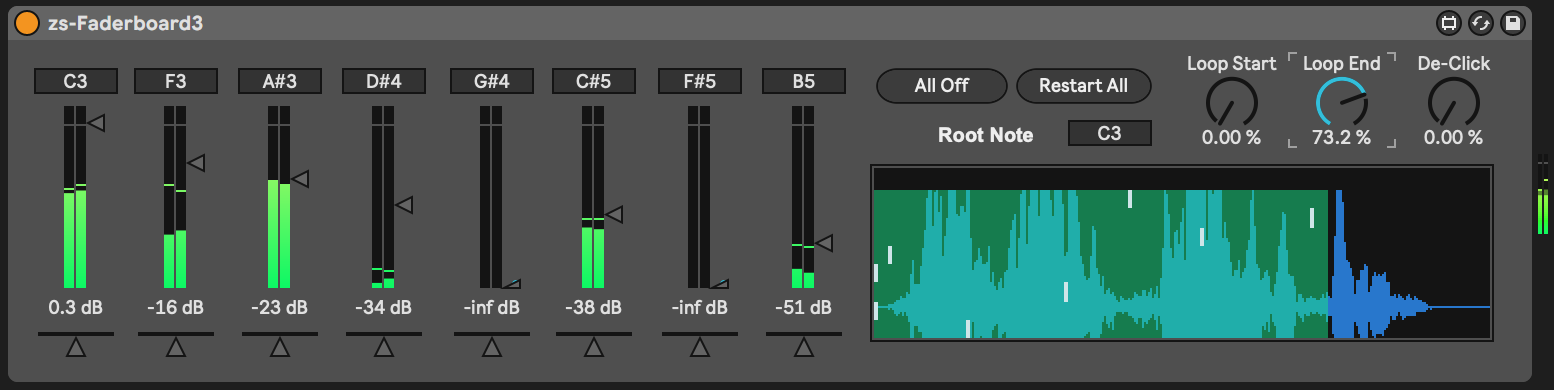
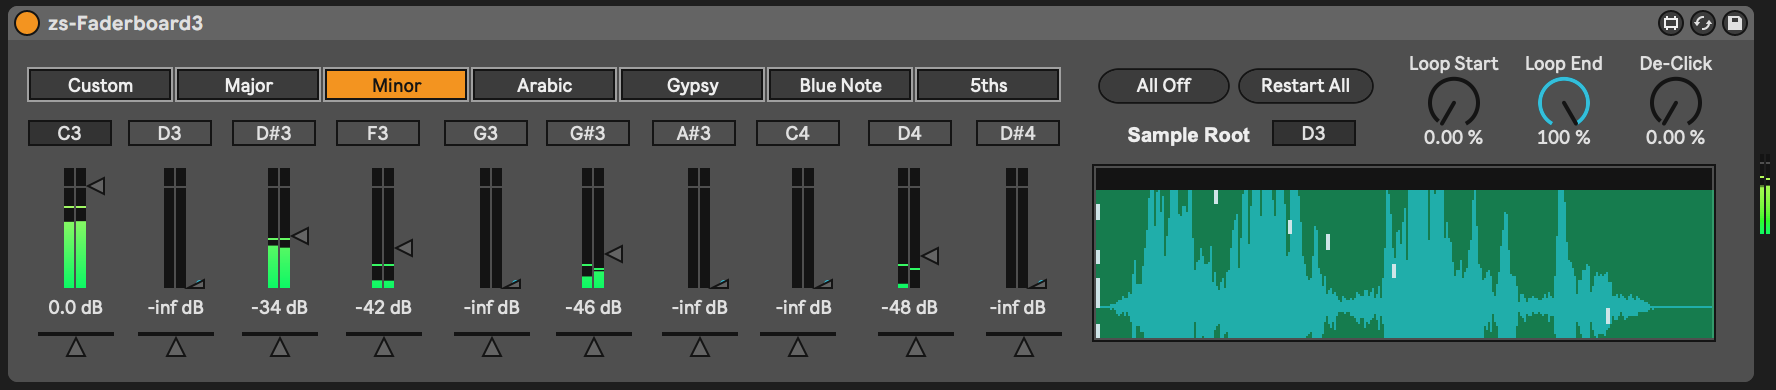
update readme and device image

diff --git a/README.md b/README.md
@@ -2,7 +2,7 @@
 
 This is a Max For Live device that seeks to replicate the functionality of the Vestax Faderboard. This device came to my attention via [Hainbach's Video](https://www.youtube.com/watch?v=E1Kr0EJwZ-c), and I was intrigued by the idea that the primary interface to a sample would be a set of faders.
 
-Overall, this is an 8-voice pitched sample-playback device. The sample is triggered for a voice when that voice's fader is moved off of its `-inf Db` position. As long as the fader is above "silent" then the sample will play/loop, with volume controlled by the fader. The sample loop start/end is controlled globally, and if the start > end, then the loop plays backward.
+Overall, this is an 10-voice pitched sample-playback device. The sample is triggered for a voice when that voice's fader is moved off of its `-inf Db` position. As long as the fader is above "silent" then the sample will play/loop, with volume controlled by the fader. The sample loop start/end is controlled globally, and if the start > end, then the loop plays backward.
 
 Each voice's pitch and pan position is controlled independently. The pitch played is relative to the global sample "Root Note".
 
@@ -20,6 +20,8 @@ Next, set the root note of the audio.
 
 From there, you can move the faders to trigger playback of the audio at the pitch indicated above the fader.
 
+Each channel can have its own pitch, or you can use the row of buttons across the top to set a scale. The choices correspond with what was on the original Faderbard, with the addition of "5ths" which is something I like. When you have a scale preset selected, only the first channel's pitch control has any effect.
+
 You can also change the pan position of each voice with the horizontal slider below each fader.
 
 To make fine adjustments of the loop points, hold down `Shift` while moving the knobs.
@@ -29,6 +31,12 @@ The "All Off" button will return all faders to the `-inf Db` position.
 The "Restart All" button will force all playing loops to jump back to the beginning of the loop and continue playing.
 
 The "De-Click" knob will apply a fade at the beginning and end of the loop. The 100% setting can be interesting.
+
+## Multi-Channel Output
+
+The first two channels of the device's output are the stereo mix. It also has 10 additional pairs of outputs -- one for each channel. This allows you to process each channel independently, which opens a lot of creative doors.
+
+To use the individual outputs, create an Audio track, set its monitoring mode to "In", and set its input to the Faderboard track, with the specific output selected. For example, output channels 3/4 correspond to Faderboard Channel 1, since output channels 1/2 are the stereo mix.
 
 ## Attention to Detail
 
@@ -44,6 +52,7 @@ The "De-Click" knob will apply a fade at the beginning and end of the loop. The 
 
 ## Changelog
 
+* 2022-02-17 Add scale presets + Add individual channel outputs.
 * 2022-02-15 De-Click control to avoid clicks at loop boundaries.
 * 2022-01-16 Allow for multiple instances of the device in one Live Set.
 * 2022-01-15 Proper Push / Push2 integration.
